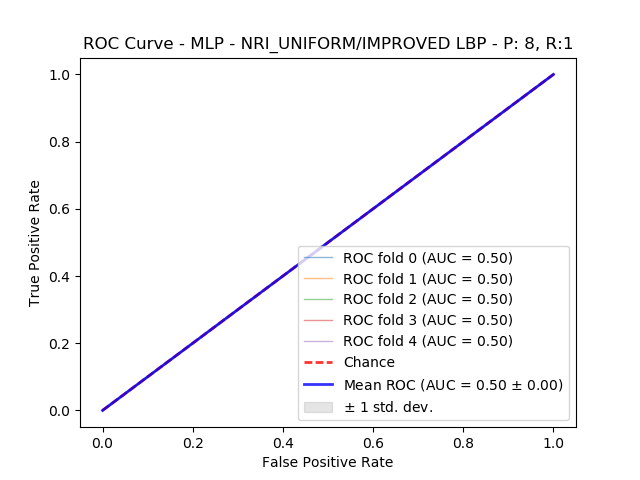
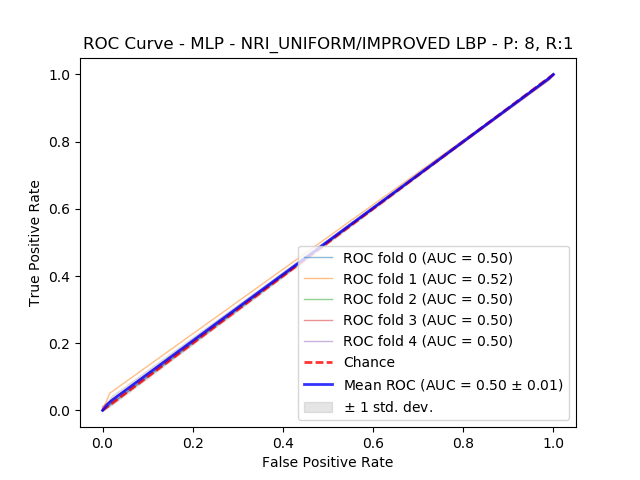
Atualizacao dos resultados de classificacao

diff --git a/main.py b/main.py
@@ -14,8 +14,7 @@ from sklearn.tree import DecisionTreeClassifier
 from sklearn.ensemble import RandomForestClassifier
 from sklearn.neighbors import KNeighborsClassifier
 from sklearn.metrics import roc_curve, auc, recall_score, accuracy_score, precision_score, f1_score
-from sklearn.model_selection import StratifiedKFold
-from sklearn.grid_search import GridSearchCV
+from sklearn.model_selection import StratifiedKFold, GridSearchCV
 from pygame import mixer
 
 ALGORITHM = {
@@ -36,9 +35,9 @@ VARIANTS = {
 
 def main():
     DATASET = 'DATASET/Breast Cancer/BreakHist_Dataset/40X'
-    VARIANT = 'hamming_lbp'
-    METHOD = 'uniform' # default, uniform, nri_uniform, ror, var
-    P, R = 24, 3
+    VARIANT = 'improved_lbp'
+    METHOD = 'nri_uniform' # default, uniform, nri_uniform, ror, var
+    P, R = 16, 2
 
     print('Resultados: P = {}, R = {}'.format(P, R))
     x_data = []
@@ -81,8 +80,8 @@ def main():
     
     svm_parameters = {
         'kernel': ['linear', 'rbf', 'poly'],
-        'C': [1, 10, 100]
-        #'gamma': [0.0001, 0.00001, 0.000001]
+        'C': [1, 10, 100],
+        'gamma': [0.0001, 0.00001, 0.000001]
     }
     mlp_parameters = {
         'hidden_layer_sizes': [(5,), (10,), (20,), (10, 10)],
@@ -111,8 +110,7 @@ def main():
                 ['Decision Trees', dt, dt_parameters], ['Random Forest', rf, rf_parameters], \
                 ['K-Nearest Neighbor', knn, knn_parameters]]
     
-    classifiers = [['K-Nearest Neighbor', knn, knn_parameters], ['Random Forest', rf, rf_parameters], ['Decision Trees', dt, dt_parameters]]
-
+    classifiers = [['MLP', mlp, mlp_parameters]]
     # METRICAS A SEREM ANALISADAS
     recall = []
     precision = []
@@ -205,7 +203,8 @@ def main():
         print('{}_{}_{}_{}_{}.png'.format(METHOD.upper(), VARIANTS[VARIANT], _id.replace(' ', ''), P, R))
         
         #plt.show()
-        
+        plt.close()
+
         # PRINTANDO RESULTADOS GERAIS DO MODELO
         results = np.asarray([accuracy, recall, precision, f1score])
         id_results = ['accuracy', 'precision', 'recall', 'f1score']
